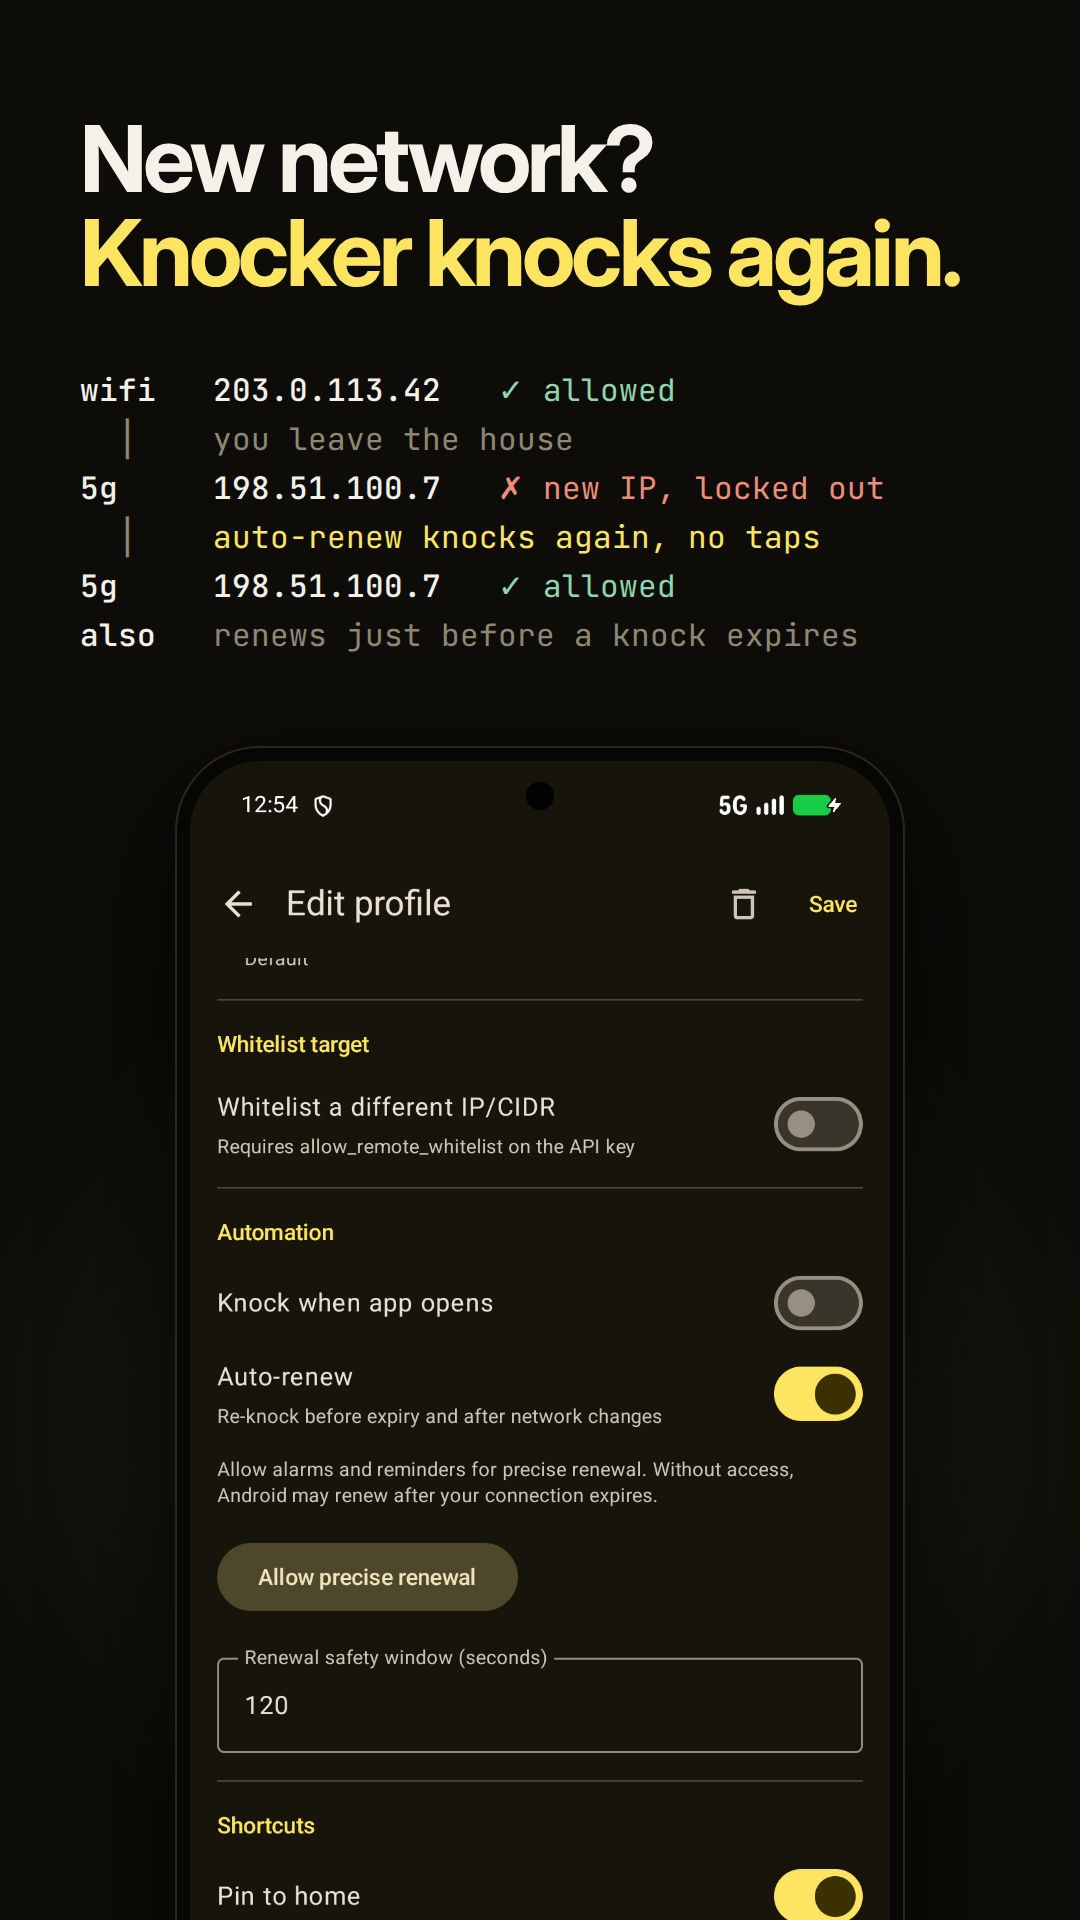
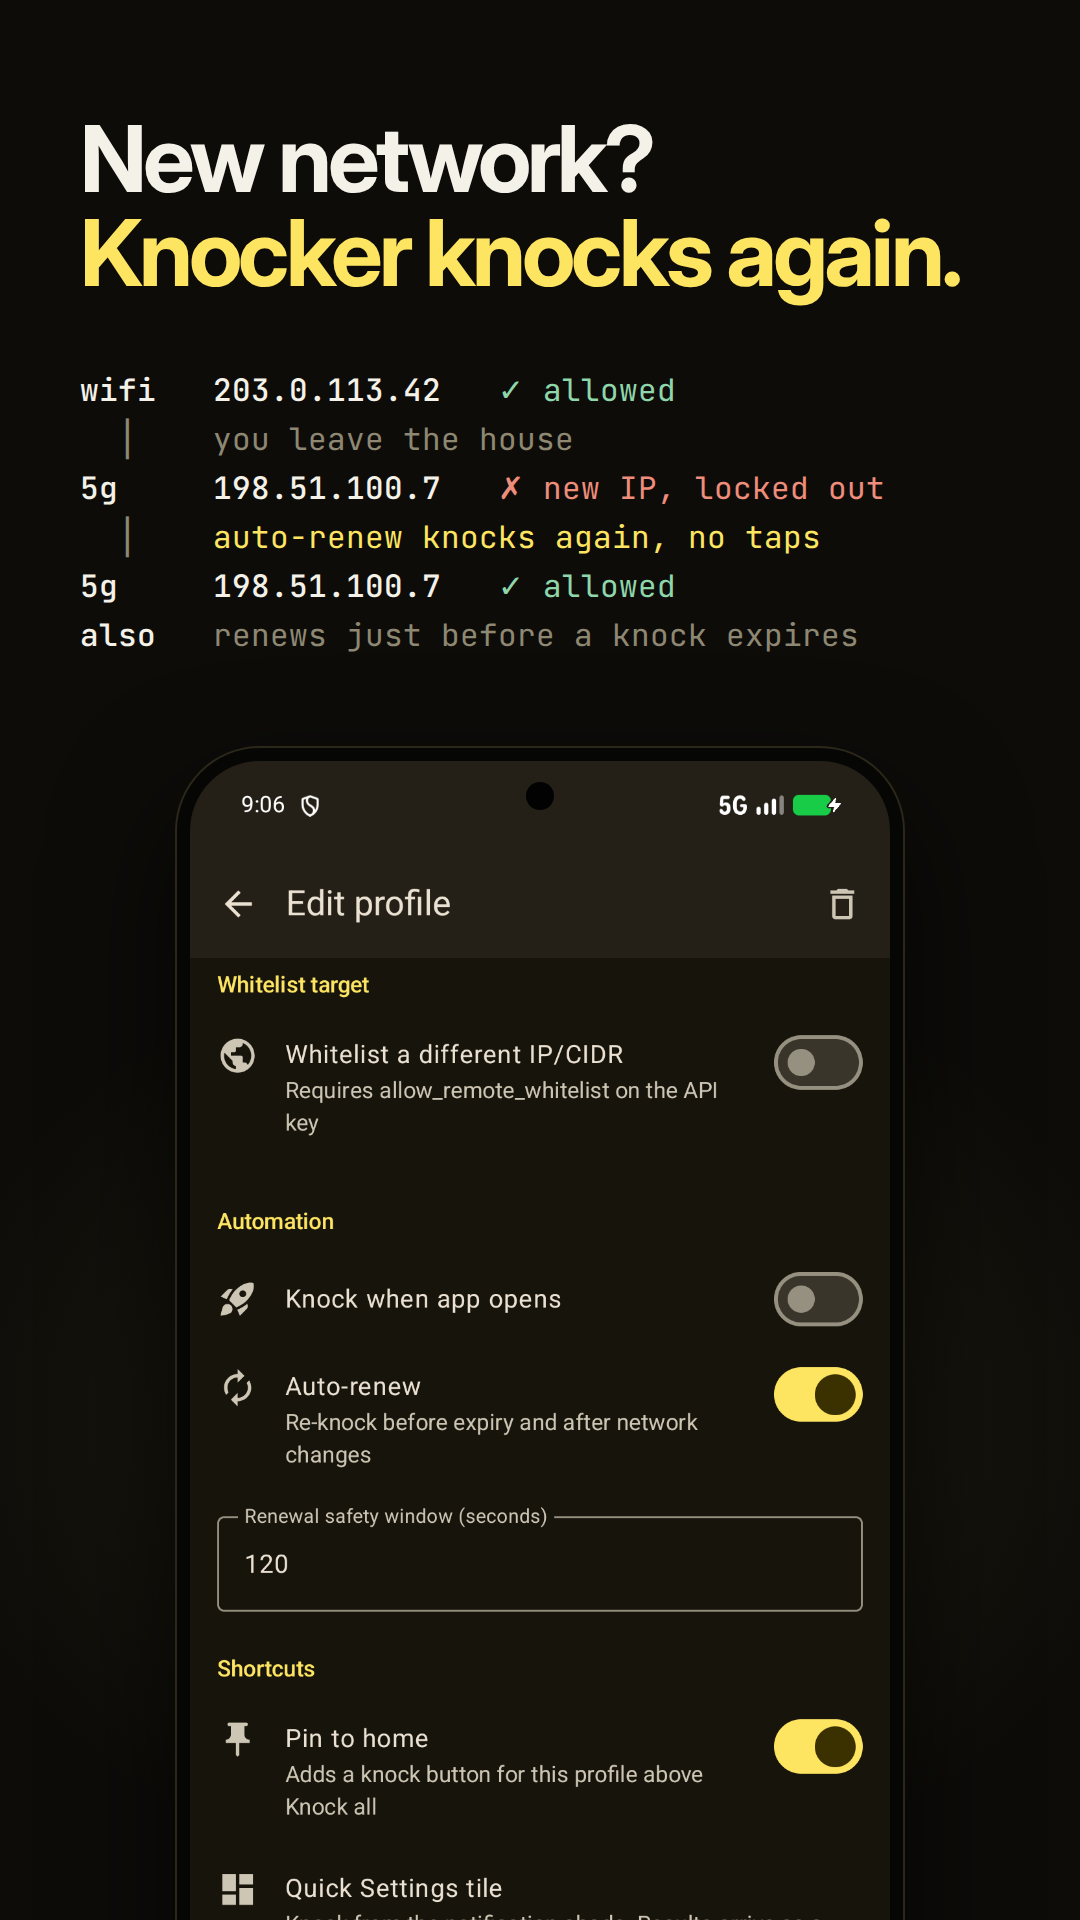
Recapture Play listing screenshots in the native app design

diff --git a/docs/play-store/README.md b/docs/play-store/README.md
@@ -12,7 +12,9 @@ Everything is laid out in `shots.html`, one `<section class="shot">` per image, 
 
 - A headline in Inter Bold with one Knocker-yellow phrase.
 - A short monospace block (JetBrains Mono) that explains the feature in a few aligned lines.
-- An upright device frame around an unaltered Pixel 7 Android 16 emulator capture from `source/` (dark mode, yellow Material You palette). Shot 3 adds one unaltered crop of the notification capture and a "one tap" pointer.
+- An upright device frame around an unaltered Pixel 7 Android 16 emulator capture from `source/` (dark mode, Knocker's yellow brand palette). Shot 3 adds one unaltered crop of the notification capture and a "one tap" pointer.
+
+`home.png` and `renew.png` show the native Compose design (top-bar New profile action, list-row editor with the floating Save action). `tile.png` and `notification.png` are system UI and did not change with that redesign. Recapture `home.png` and `renew.png` whenever the home screen or profile editor changes.
 
 Both fonts are vendored in `fonts/` under the SIL OFL 1.1. Addresses come from the documentation ranges (`203.0.113.42`, `198.51.100.7`). The capture profile used a temporary demo server, so its hostname is not a production endpoint.
 
